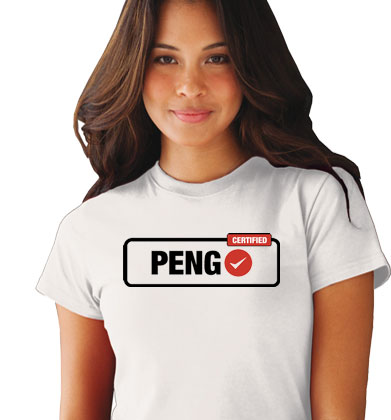
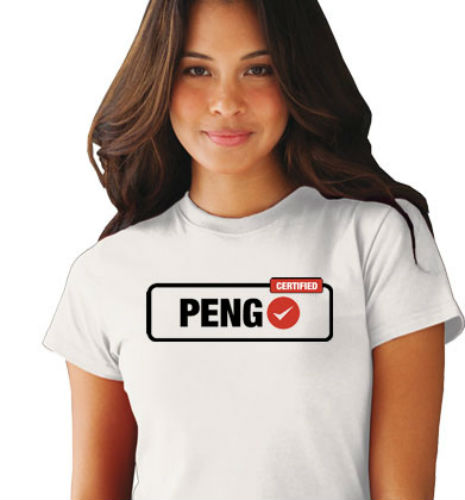
Added mobile media

diff --git a/app/assets/stylesheets/application.scss b/app/assets/stylesheets/application.scss
@@ -9,7 +9,7 @@
  * compiled file so the styles you add here take precedence over styles defined in any other CSS/SCSS
  * files in this directory. Styles in this file should be added after the last require_* statement.
  * It is generally better to create a new file per style scope.
- *
+ *= require media
  */
 
 @import "bootstrap";
@@ -52,15 +52,13 @@ body {
 }
 
 .script-box{
-  margin-bottom: 3%;
+  margin-bottom: 50px;
   margin-top: 20px;
   background: #f9f9f9;
   padding: 30px;
   color: #646464;
   border: 1px solid #dcdcdc;
   border-radius: 5px;
-  margin-left: 20%;
-  margin-right: 20%;
 }
 
 .alert-danger {
@@ -120,7 +118,9 @@ body {
 }
 
 .main-logo {
-  height: 150px !important;
+  max-width: 100%;
+  height: auto;
+  width: auto\9; /* ie8 */
 }
 
 .text-box{
@@ -138,8 +138,9 @@ body {
 }
 
 .image-video-box {
-  width: 500px;
-  height: 500px;
+  max-width: 100%;
+  height: auto;
+  width: auto\9;
 }
 
 .title-box {
@@ -165,9 +166,7 @@ body {
 }
 
 .form-box {
-  margin-top: 5%;
-  margin-left: 40%;
-  margin-right: 40%;
+  margin-bottom: 70px;
 }
 
 .search-button {
@@ -181,12 +180,11 @@ body {
 .tags-box {
   margin-top: 20px;
   padding: 30px;
-  margin-left: 18%;
-  margin-right: 18%
 }
 
 .pay-box {
   margin-top: 10%;
+  margin-bottom: 10%;
   text-align: center;
   border: 1px solid #dcdcdc;
   border-radius: 15px;
@@ -214,8 +212,8 @@ body {
 }
 
 .result {
-  margin-bottom: 5%;
-  margin-top: 5%;
+  margin-bottom: 50px;
+  margin-top: 30px;
 }
 
 .stripe-button-el span{
@@ -239,7 +237,7 @@ body {
 }
 
 .my-tags-steps {
-  margin-bottom: 5%;
+  margin-bottom: 60px;
   margin-top: 5%;
   font-size: 15px;
 }
@@ -281,4 +279,18 @@ body {
   border-radius: 15px;
   padding: 10%;
   font-size: 16px;
+}
+
+.stripe-logo {
+  max-width: 100%;
+  height: auto;
+  width: auto\9; /* ie8 */
+}
+
+.new-tag{
+  margin-bottom: 70px;
+}
+
+.login-signup{
+  margin-bottom: 70px;
 }

diff --git a/app/assets/stylesheets/media.scss b/app/assets/stylesheets/media.scss
@@ -1,0 +1,15 @@
+@media only screen and (max-width: 550px){
+  .footer-links{
+    text-align: center !important;
+    font-size: 20px !important;
+    float: none !important;
+  }
+  .footer-company{
+    text-align: center !important;
+    float: none !important;
+    font-size: 16px !important;
+  }
+  .navbar{
+    text-align: center !important;
+  }
+}

diff --git a/app/assets/javascripts/application.js b/app/assets/javascripts/application.js
@@ -7,7 +7,7 @@ $(document).on('turbolinks:load', function(){
     $( ".stripe-button-el" ).prop( "disabled", true );
     setTimeout(function(){
         $( ".stripe-button-el" ).prop( "disabled", true );
-    }, 200);
+    }, 500);
 });
 
 // $(document).on('click', '.link-tr', function(e) {
